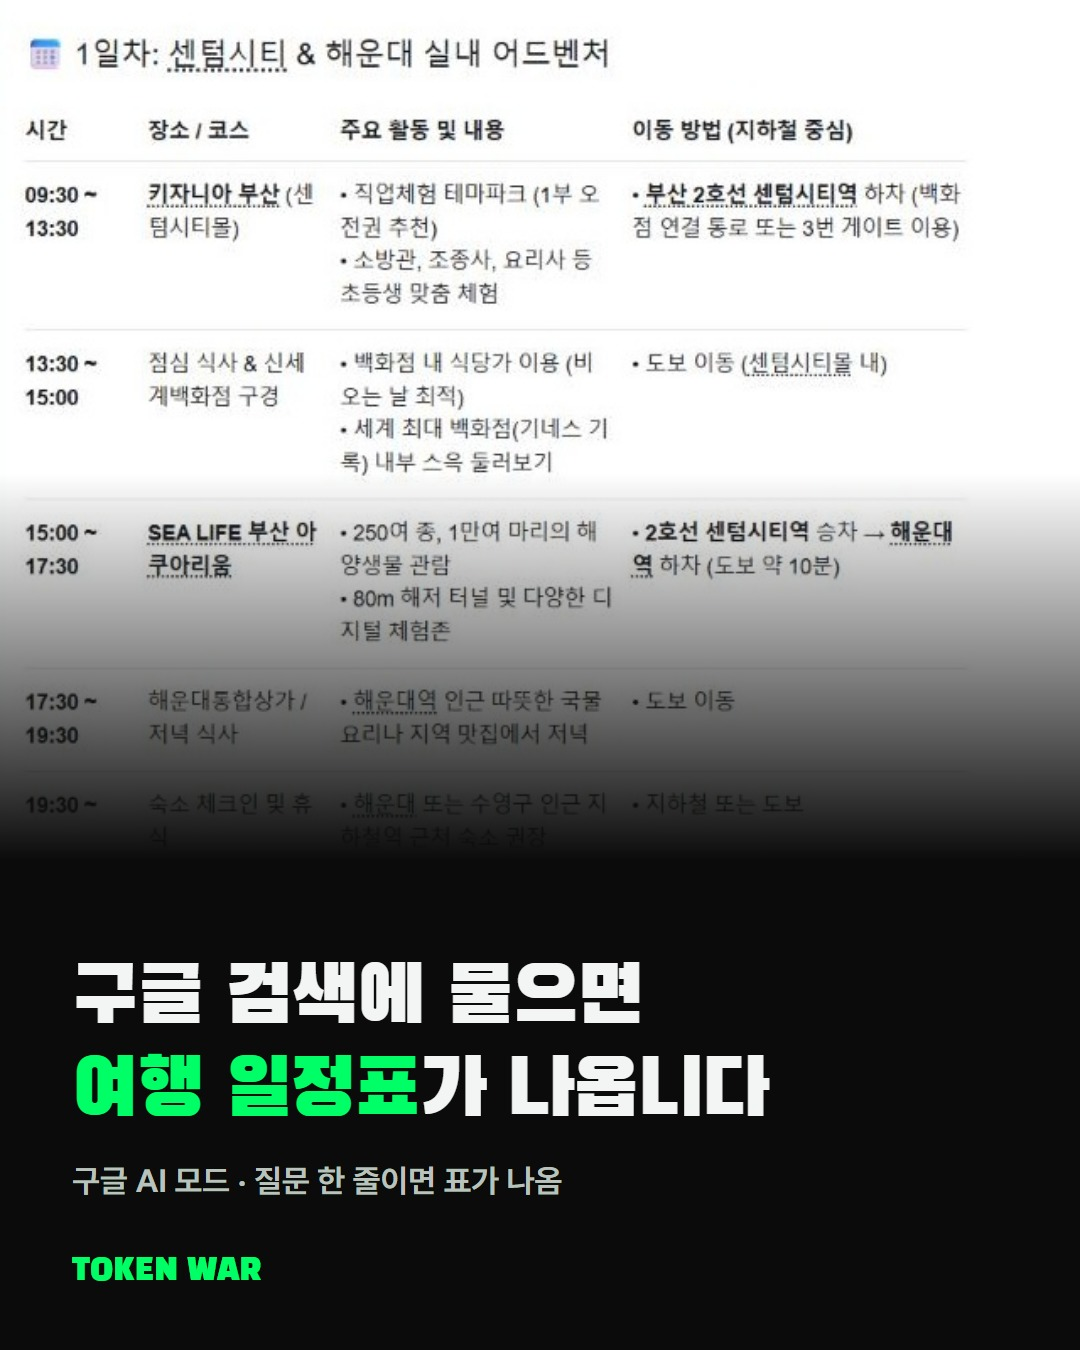
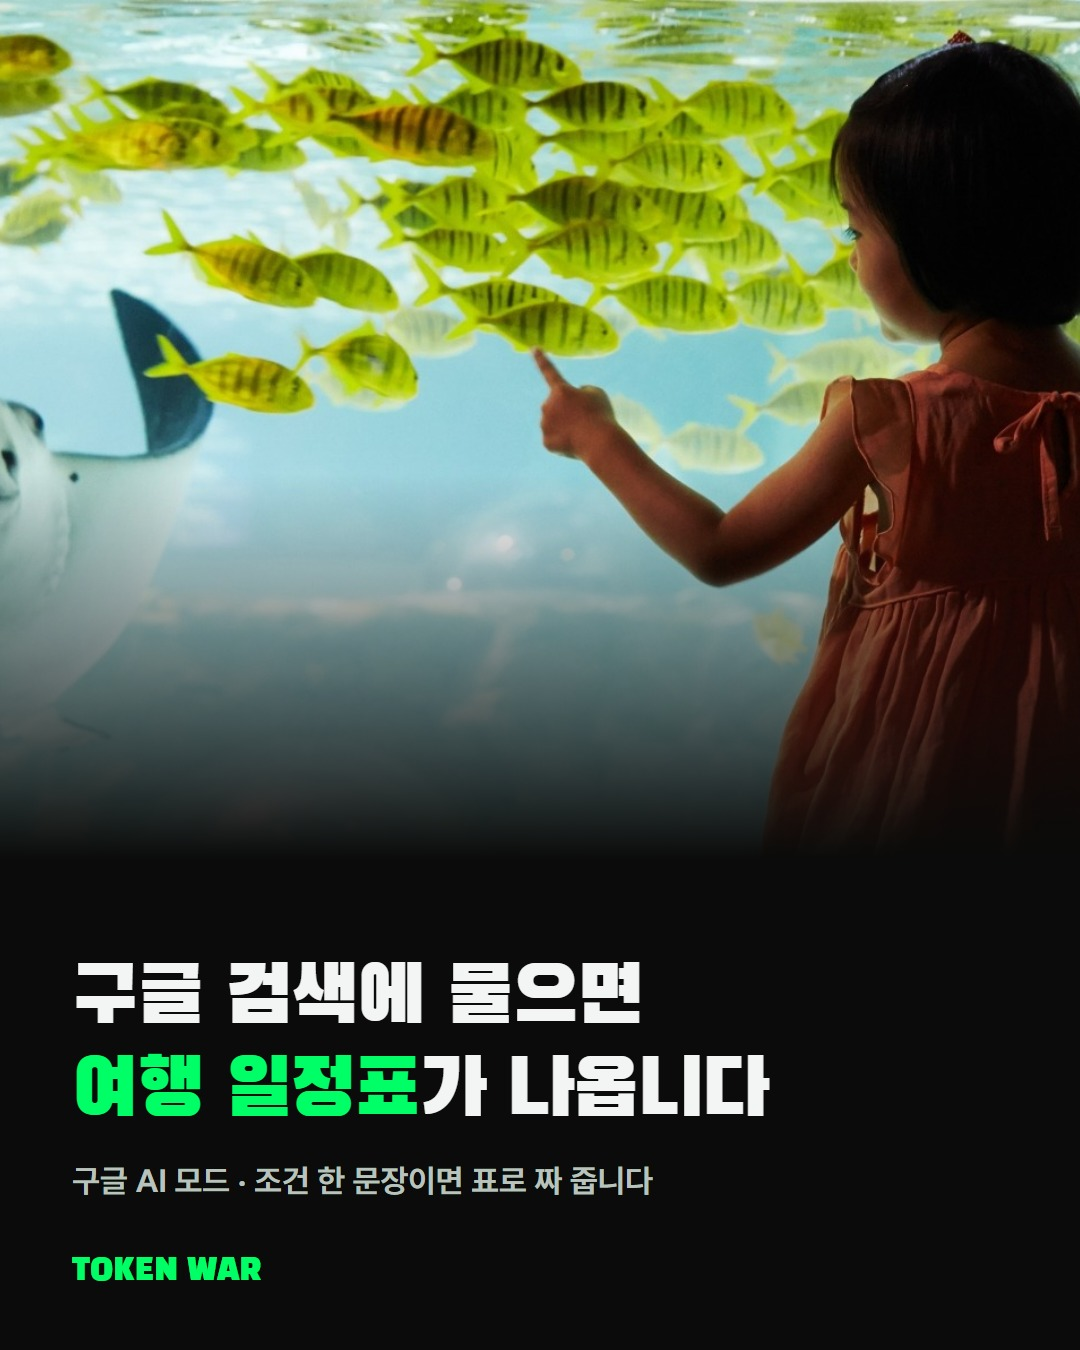
예시 s12를 다시 만든 구글 AI 모드 따라 하기 카드로 교체 (표지 후킹 사진, 현장 사진, 다듬은 문장)

diff --git a/samples/s12-howto-ai-mode/page.html b/samples/s12-howto-ai-mode/page.html
@@ -2,7 +2,7 @@
 <html lang="ko"><head><meta charset="utf-8">
 <meta name="viewport" content="width=device-width,initial-scale=1">
 <title>구글 검색에 물으면 여행 일정표가 나옵니다 · 토큰전쟁</title>
-<meta name="description" content="구글 검색의 AI 모드에 조건을 한 문장으로 다 넣으면 시간대별 일정표로 답합니다. 11월 15일에 직접 넣어 본 질문과 결과입니다.">
+<meta name="description" content="구글 검색의 AI 모드에 조건을 한 문장으로 모두 넣으면 시간대별 일정표로 답합니다. 11월 15일에 직접 넣어 본 질문과 결과입니다.">
 <meta name="robots" content="noindex">
 <link rel="preconnect" href="https://fonts.googleapis.com">
 <link href="https://fonts.googleapis.com/css2?family=Black+Han+Sans&display=swap" rel="stylesheet">
@@ -38,10 +38,10 @@ ul{padding-left:20px;color:#CFD6D2}
 <body><main>
 <div class="brand">TOKEN WAR</div>
 <h1>구글 검색에 물으면<br><span class="hl">여행 일정표</span>가 나옵니다</h1>
-<p class="intro">구글 검색의 AI 모드에 조건을 한 문장으로 다 넣으면 시간대별 일정표로 답합니다. 11월 15일에 직접 넣어 본 질문과 결과입니다.</p>
-<section class="step"><span class="k">01</span><span class="lb">구글 첫 화면</span><h2>검색창 오른쪽 AI 모드를 누릅니다</h2><p>로그인하지 않은 상태에서도 열렸습니다. 11월 12일부터 새 제미나이 모델이 답합니다.</p></section><section class="step"><span class="k">02</span><span class="lb">질문 넣기</span><h2>조건을 한 문장에 다 넣습니다</h2><div class="pr"><pre>12월 주말 부산 1박 2일, 초등학생 아이 둘과 가요. 비 오면 실내 위주로, 이동은 지하철로만. 시간대별 일정을 표로 짜 줘</pre><button type="button" onclick="cp(this)">복사</button></div><p>언제, 누구와, 날씨, 이동 수단, 받고 싶은 모양(표)까지 적었습니다.</p></section><section class="step"><span class="k">03</span><span class="lb">실제 결과</span><h2>시간대별 표로 답이 나왔습니다</h2><p>1일 차는 키자니아와 아쿠아리움, 2일 차는 박물관과 과학관. 내릴 역 이름이 붙어 있습니다.</p></section><section class="step"><span class="k">04</span><span class="lb">주의할 점</span><h2>조건을 다 지키지는 않습니다</h2><p>지하철로만 다닌다고 했는데, 과학관은 역에서 버스나 택시를 타라고 했습니다.</p></section>
-<div class="rule"></div><h3>직접 해 본 결과</h3><p>1일 차는 키자니아와 아쿠아리움, 2일 차는 박물관과 과학관으로 시간대별 표가 나왔고, 내릴 역 이름이 붙어 있었습니다. 다만 &#x27;지하철로만&#x27;이라고 했는데도 과학관은 역에서 버스나 택시를 타라고 했습니다.</p><div class="rule"></div><h3>주의할 점</h3><ul><li>지도 앱으로 동선 확인: 역에서 걷는 시간과 환승을 다시 보기</li><li>운영 시간과 예약: 체험 시설은 회차와 예약 여부 확인</li><li>고칠 점은 바로 다시 묻기: 같은 대화창에 바꿀 조건만 이어서 적기</li></ul>
-<div class="src">출처<ul><li><a href="https://blog.google/products-and-platforms/products/search/gemini-4-hydrogen-search-upgrade/" rel="noopener">구글 블로그: 검색에 새 모델 적용 (11월 12일)</a></li><li><a href="https://www.google.com/search?udm=50" rel="noopener">구글 AI 모드 직접 사용 (11월 15일)</a></li></ul>2026.11.16 기준. 결과는 직접 해 본 것이고, AI 답은 그때그때 달라질 수 있습니다.</div>
+<p class="intro">구글 검색의 AI 모드에 조건을 한 문장으로 모두 넣으면 시간대별 일정표로 답합니다. 11월 15일에 직접 넣어 본 질문과 결과입니다.</p>
+<section class="step"><span class="k">01</span><span class="lb">구글 첫 화면</span><h2>검색창 오른쪽 &#x27;AI 모드&#x27;를 누릅니다</h2><p>로그인하지 않아도 열렸습니다. 11월 12일부터 새 제미나이 모델이 답을 만듭니다.</p></section><section class="step"><span class="k">02</span><span class="lb">질문 넣기</span><h2>조건을 한 문장에 모두 넣습니다</h2><div class="pr"><pre>12월 주말 부산 1박 2일, 초등학생 아이 둘과 가요. 비 오면 실내 위주로, 이동은 지하철로만. 시간대별 일정을 표로 짜 줘</pre><button type="button" onclick="cp(this)">복사</button></div><p>날짜, 같이 갈 사람, 날씨, 이동 수단을 적고 표로 짜 달라고 했습니다.</p></section><section class="step"><span class="k">03</span><span class="lb">실제 결과</span><h2>시간대별 표로 일정을 짜 줬습니다</h2><p>1일 차는 키자니아와 아쿠아리움, 2일 차는 박물관과 과학관입니다. 장소마다 내릴 역이 적혀 있습니다.</p></section><section class="step"><span class="k">04</span><span class="lb">일정 속 장소</span><h2>비가 와도 괜찮은 실내 코스로 골랐습니다</h2><p>1일 차 오후에는 해운대 아쿠아리움에 갑니다. 해운대역에서 걸어서 10분쯤이라고 적혀 있습니다.</p></section><section class="step"><span class="k">05</span><span class="lb">주의할 점</span><h2>조건을 다 지키지는 않았습니다</h2><p>지하철로만 다닌다고 했는데, 국립부산과학관은 역에서 버스나 택시를 타라고 했습니다.</p></section>
+<div class="rule"></div><h3>직접 해 본 결과</h3><p>1일 차는 키자니아와 아쿠아리움, 2일 차는 박물관과 과학관으로 시간대별 표가 나왔고, 장소마다 내릴 역이 적혀 있었습니다. 다만 &#x27;지하철로만&#x27;이라고 적었는데도 국립부산과학관은 역에서 버스나 택시를 타라고 했습니다.</p><div class="rule"></div><h3>주의할 점</h3><ul><li>지도 앱으로 동선 다시 보기: 역에서 걷는 시간과 환승 횟수를 확인합니다</li><li>운영 시간과 예약 확인: 체험 시설은 회차와 예약이 필요한지 봅니다</li><li>고칠 점은 이어서 묻기: 같은 대화창에 바꿀 조건만 적어 보냅니다</li></ul>
+<div class="src">출처<ul><li><a href="https://blog.google/products-and-platforms/products/search/gemini-4-hydrogen-search-upgrade/" rel="noopener">구글 블로그: 검색에 새 제미나이 모델 적용 (11월 12일)</a></li><li><a href="https://www.google.com/search?udm=50" rel="noopener">구글 AI 모드 직접 사용 (11월 15일)</a></li><li><a href="https://commons.wikimedia.org/wiki/File:SEA_LIFE_%EB%B6%80%EC%82%B0%EC%95%84%EC%BF%A0%EC%95%84%EB%A6%AC%EC%9B%80_%EA%B0%80%EC%98%A4%EB%A6%AC_%EC%88%98%EC%A1%B0.jpg" rel="noopener">표지 사진: Wmainbrain, CC BY-SA 4.0, 위키미디어 공용</a></li><li><a href="https://commons.wikimedia.org/wiki/File:Sea_Life_Busan_Aquarium_13.jpg" rel="noopener">아쿠아리움 사진: Ryan Bodenstein, CC BY 2.0, 위키미디어 공용</a></li></ul>2026.11.16 기준. 결과는 직접 해 본 것이고, AI 답은 그때그때 달라질 수 있습니다.</div>
 <p class="foot">매일 AI 소식은 <a href="https://www.instagram.com/tokenwar_ai/">@tokenwar_ai</a></p>
 </main>
 <script>

diff --git a/samples/s12-howto-ai-mode/dm.md b/samples/s12-howto-ai-mode/dm.md
@@ -4,7 +4,7 @@
 
 | Zorcha 칸 | 넣을 값 |
 |---|---|
-| 게시물 | 2026-11-16 10:13 게시물 「구글 검색에 물으면 여행 일정표가 나옵니다」 |
+| 게시물 | 2026-11-16 13:13 게시물 「구글 검색에 물으면 여행 일정표가 나옵니다」 |
 | 키워드 (댓글에 이 말이 들어가면) | `받기` |
 | 댓글 공개 답글 | DM으로 보내 드렸어요. 안 보이면 메시지 요청함을 확인해 주세요. |
 | Ask for Follow | 켬 |
@@ -17,8 +17,8 @@
 ## DM 문구
 
 ```
-부산 1박 2일 일정표를 받아 낸 질문이에요.
-아래 '자료 보기'를 누르면 복사 버튼이 있는 페이지가 열립니다. 날짜, 인원, 이동 수단만 바꿔서 우리 가족 일정으로 써 보세요.
+부산 1박 2일 일정표를 짜 준 질문이에요.
+'자료 보기'를 누르면 복사 버튼이 있는 페이지가 열려요. 날짜, 인원, 이동 수단만 바꿔 우리 가족 일정으로 써 보세요.
 답에 나온 동선은 지도 앱으로 한 번 더 확인하세요.
 ```
 
